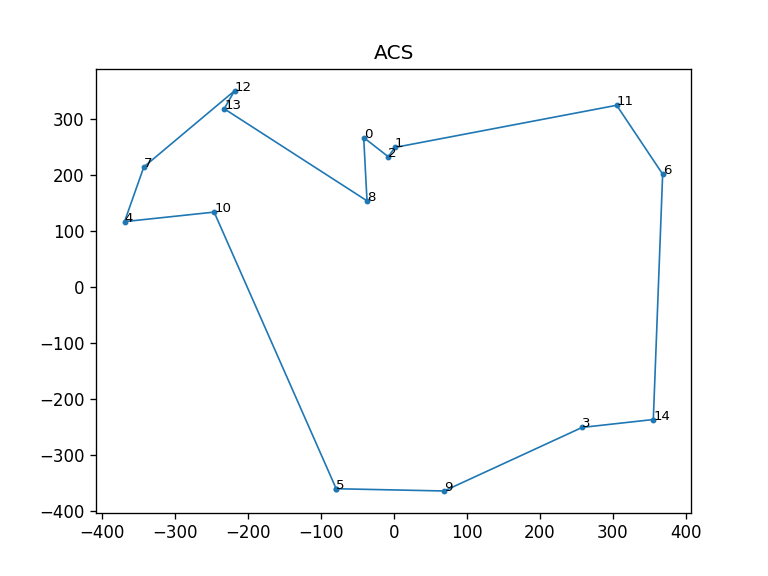
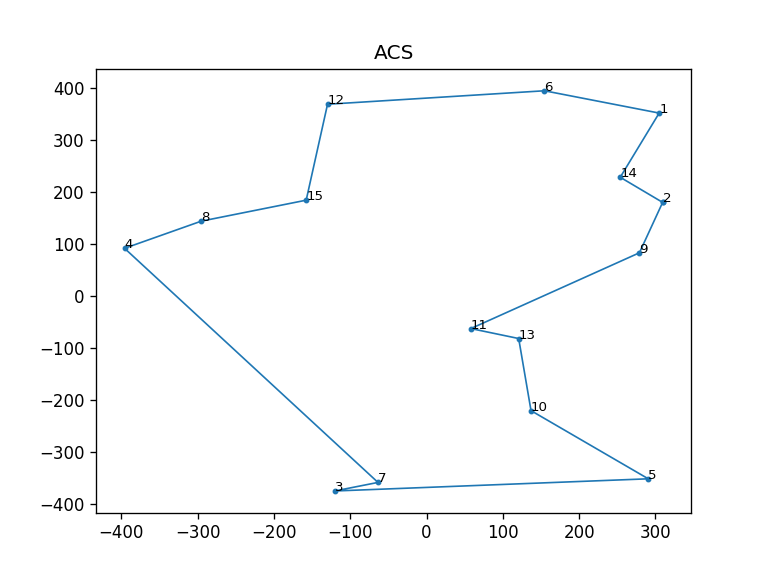
Bug fixes.

diff --git a/aco_tsp.py b/aco_tsp.py
@@ -156,7 +156,7 @@ class SolveTSPUsingACO:
         plt.scatter(x, y, s=math.pi * (point_radius ** 2.0))
         plt.title(self.mode)
         for i in self.global_best_tour:
-            plt.annotate(i, self.nodes[i], size=annotation_size)
+            plt.annotate(i + 1, self.nodes[i], size=annotation_size)
         if save:
             if name is None:
                 name = '{0}_tour.png'.format(self.mode)
@@ -166,12 +166,12 @@ class SolveTSPUsingACO:
 
 
 if __name__ == '__main__':
-    acs = SolveTSPUsingACO(mode='ACS', steps=50, num_nodes=15, x_range=(-400, 400), y_range=(-400, 400))
+    acs = SolveTSPUsingACO(mode='ACS', colony_size=5, steps=50, num_nodes=15, x_range=(-400, 400), y_range=(-400, 400))
     acs.run()
     acs.plot()
-    elitist = SolveTSPUsingACO(mode='Elitist', steps=50, nodes=acs.nodes)
+    elitist = SolveTSPUsingACO(mode='Elitist', colony_size=5, steps=50, nodes=acs.nodes)
     elitist.run()
     elitist.plot()
-    max_min = SolveTSPUsingACO(mode='MaxMin', steps=50, nodes=acs.nodes)
+    max_min = SolveTSPUsingACO(mode='MaxMin', colony_size=5, steps=50, nodes=acs.nodes)
     max_min.run()
     max_min.plot()

diff --git a/README.md b/README.md
@@ -16,13 +16,13 @@ acs.plot()
 
 #### Example
 ```python
-acs = SolveTSPUsingACO(mode='ACS', steps=50, num_nodes=15, x_range=(-400, 400), y_range=(-400, 400))
+acs = SolveTSPUsingACO(mode='ACS', colony_size=5, steps=50, num_nodes=15, x_range=(-400, 400), y_range=(-400, 400))
 acs.run()
 acs.plot()
-elitist = SolveTSPUsingACO(mode='Elitist', steps=50, nodes=acs.nodes)
+elitist = SolveTSPUsingACO(mode='Elitist', colony_size=5, steps=50, nodes=acs.nodes)
 elitist.run()
 elitist.plot()
-max_min = SolveTSPUsingACO(mode='MaxMin', steps=50, nodes=acs.nodes)
+max_min = SolveTSPUsingACO(mode='MaxMin', colony_size=5, steps=50, nodes=acs.nodes)
 max_min.run()
 max_min.plot()
 ```
@@ -31,18 +31,18 @@ max_min.plot()
 ```
 Started: ACS
 Ended: ACS
-Tour: [6 -> 10 -> 4 -> 15 -> 7 -> 12 -> 2 -> 3 -> 1 -> 9 -> 14 -> 13 -> 8 -> 5 -> 11 -> 6]
-Distance: 2761.06
+Tour: [2 -> 14 -> 1 -> 6 -> 12 -> 15 -> 8 -> 4 -> 7 -> 3 -> 5 -> 10 -> 13 -> 11 -> 9 -> 2]
+Distance: 2893.66
 
 Started: Elitist
 Ended: Elitist
-Tour: [2 -> 3 -> 1 -> 9 -> 13 -> 14 -> 8 -> 5 -> 11 -> 6 -> 10 -> 4 -> 15 -> 7 -> 12 -> 2]
-Distance: 2740.04
+Tour: [4 -> 8 -> 15 -> 12 -> 6 -> 1 -> 14 -> 2 -> 9 -> 11 -> 13 -> 10 -> 5 -> 7 -> 3 -> 4]
+Distance: 2818.66
 
 Started: MaxMin
 Ended: MaxMin
-Tour: [4 -> 15 -> 7 -> 12 -> 9 -> 3 -> 2 -> 1 -> 13 -> 14 -> 8 -> 5 -> 11 -> 6 -> 10 -> 4]
-Distance: 2705.84
+Tour: [7 -> 3 -> 4 -> 8 -> 15 -> 12 -> 6 -> 1 -> 14 -> 2 -> 9 -> 11 -> 13 -> 10 -> 5 -> 7]
+Distance: 2818.66
 ```
 
 #### Plots
